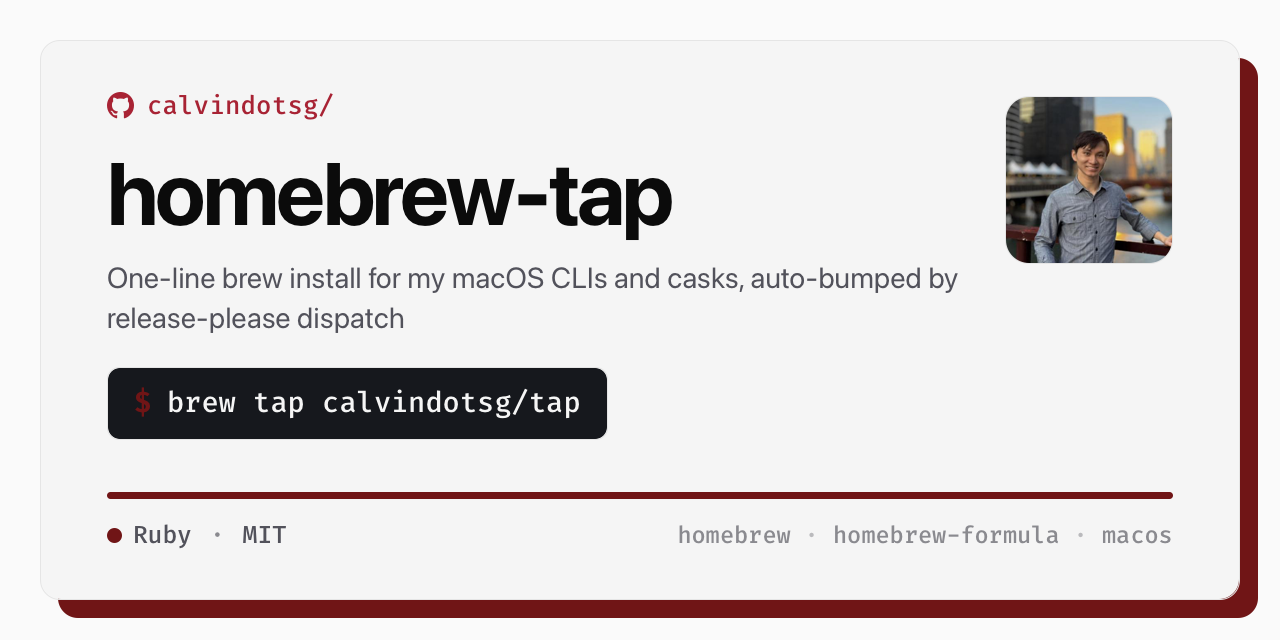
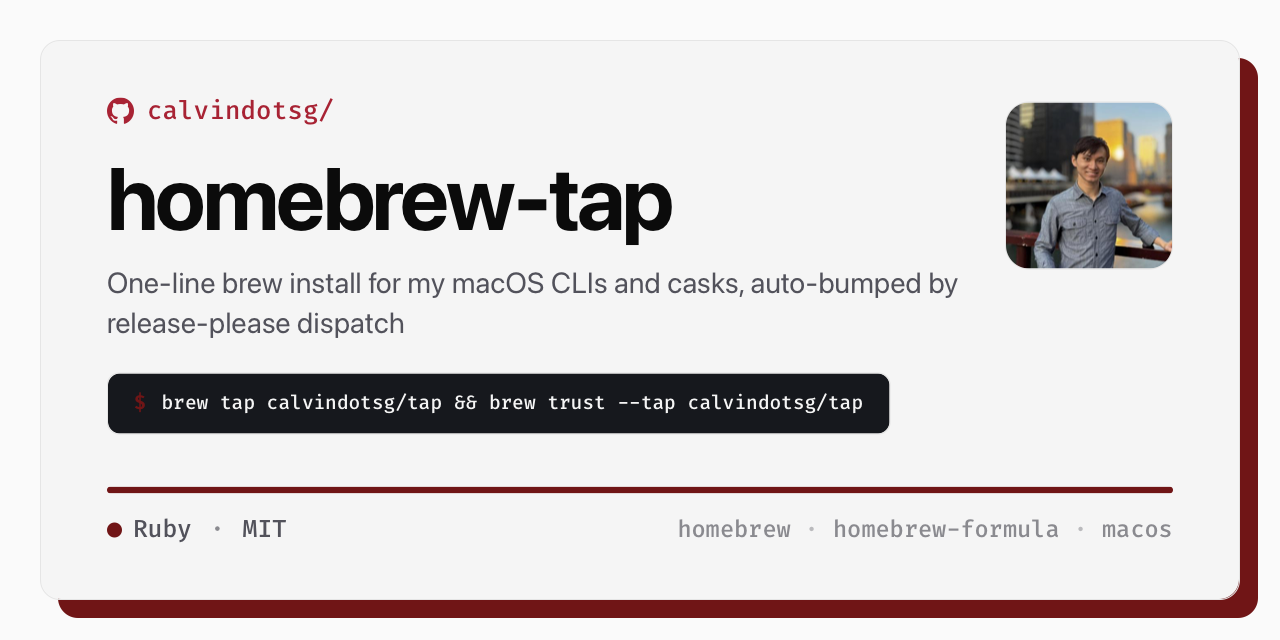
feat(social-preview): add a dark set, and fix the tap's install command
Two changes, both from putting a card into a README for the first time.

The homebrew-tap card advertised `brew tap calvindotsg/tap`. That repo's
own README explains at length that the command is not sufficient on
Homebrew 6.0 and later — `brew tap` does not confer trust, and without it
`brew upgrade` and `brew outdated` SILENTLY SKIP the tap. The card was
therefore promoting the exact failure its own README documents, on the one
repository where a reader is most likely to notice. Now carries the full
two-command form; it fits the chip without shrinking.

Adds images/dark/, the same six drawn with --theme dark. Nothing uploads
these: the social preview slot takes one image and it is the light one.
They exist because a README is rendered in the READER's theme, so a
light-canvas PNG glares on GitHub dark mode. Verified against GitHub's HTML
sanitiser that <picture>, <source media>, <td width> and a wrapping <a> all
survive, so the themed pair is embeddable.

Documents both, and the one layout constraint worth stating up front: a card
needs the full column. At half width in a two-column table it is ~437px on
desktop and ~180px on a phone, where everything below the repository name
stops being readable — and GitHub's tables do not stack.

Claude-Session: https://claude.ai/code/session_01Po4827ua2sCb7ZHRfXYJ9D

diff --git a/social-preview/README.md b/social-preview/README.md
@@ -13,6 +13,28 @@ LinkedIn. `scripts/social-preview.sh` draws one from the repository's own metada
 preview back, so a committed copy is the only record of what is live — and the only way a change
 to the design shows up as a diff.
 
+`images/dark/` holds the same six drawn with `--theme dark`. **Nothing uploads these** — the
+social preview slot takes one image and it is the light one. They exist because a card is also
+useful inside a README, and a README is rendered in the *reader's* theme: a light-canvas PNG on
+GitHub's dark mode is a glaring white slab. Embed the pair instead, which GitHub supports and
+keeps through its HTML sanitiser (verified: `<picture>`, `<source media>`, `<td width>` and a
+wrapping `<a>` all survive, and GitHub wraps the result in its own `themed-picture` element):
+
+```html
+<picture>
+  <source media="(prefers-color-scheme: dark)"
+          srcset="https://raw.githubusercontent.com/calvindotsg/.github/main/social-preview/images/dark/NAME.png">
+  <img alt="NAME" src="https://raw.githubusercontent.com/calvindotsg/.github/main/social-preview/images/NAME.png">
+</picture>
+```
+
+Consumers link to the raw URLs here rather than committing their own copy, so regenerating a
+card updates every README that shows it. **Give a card the full column width.** Rendered at
+half width in a two-column table it measures ~437px on a desktop and ~180px on a phone, where
+everything below the repository name — description, install chip, language row, topics — stops
+being readable and the card becomes decoration. GitHub's markdown tables do not stack on narrow
+screens, so there is no responsive escape from that.
+
 ## What a card carries that GitHub's generated one does not
 
 GitHub's generated card is good and it is live: owner and repository name, description, owner
